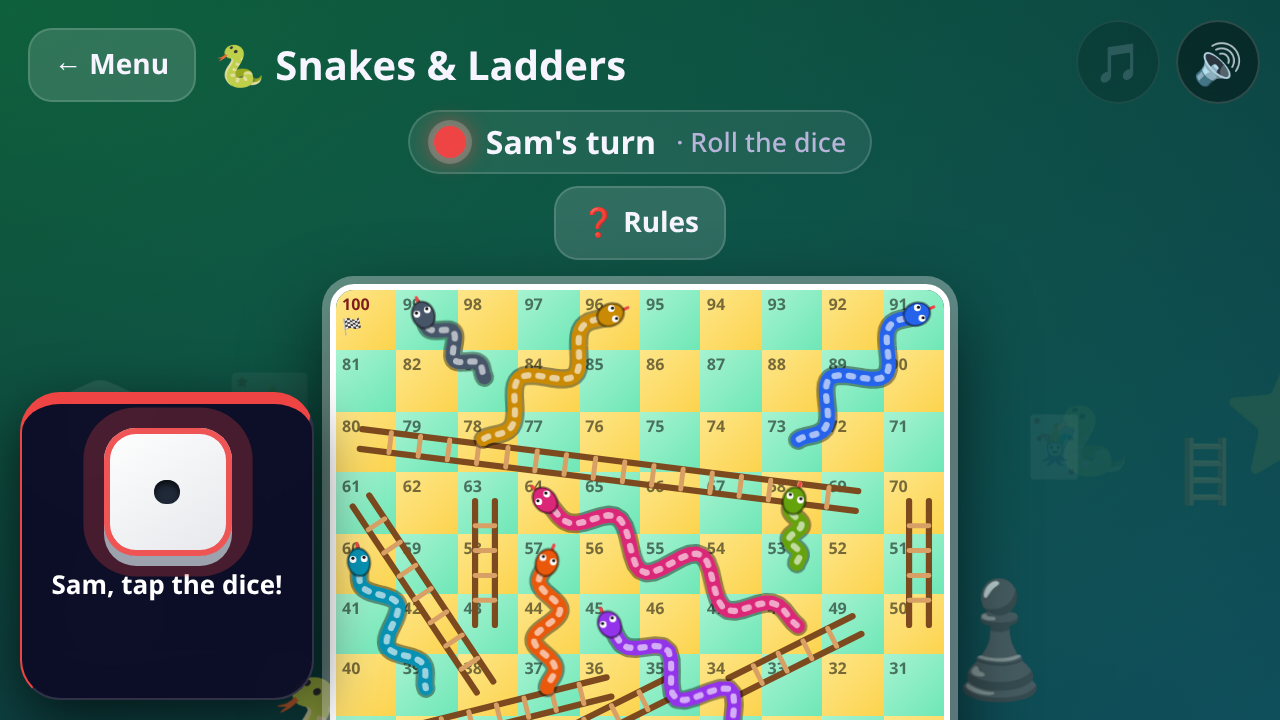
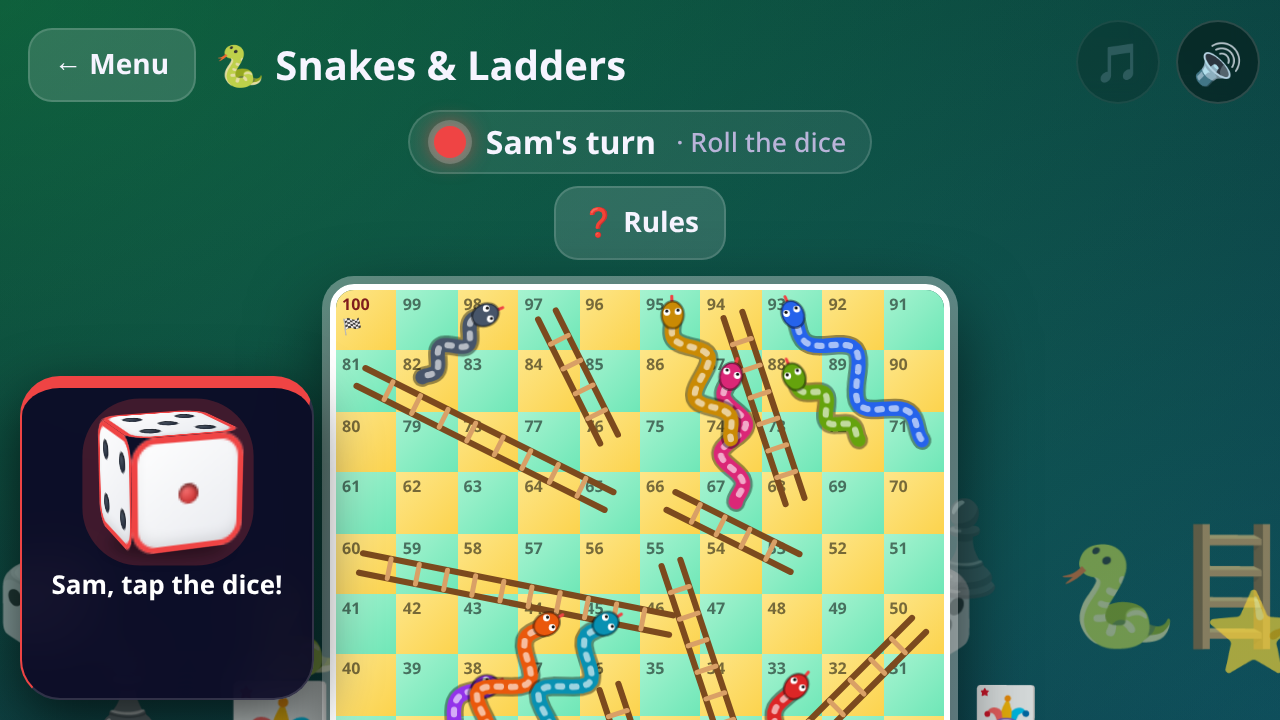
3D dice: CSS cube with six faces that tumbles and lands on the rolled number
Pure CSS 3D (no libraries): tilted cube shows three faces, spins 1-3 extra turns per axis (cosmetic crand),
hops with a shrinking shadow, red ace, player-coloured edges, breathing + pulse ring when it's your roll.
The rolled number is drawn at the start of the roll (synchronously) so the cube can land on it; online
determinism and the re-sync guard are unchanged.

diff --git a/game-night.html b/game-night.html
@@ -78,18 +78,32 @@ canvas.confetti{position:fixed;inset:0;width:100%;height:100%;z-index:130;pointe
 @keyframes pulse{to{transform:scale(1.14)}}
 
 /* Dice (shared by Ludo and Snakes & Ladders) */
-.dice{--dc:#fff;flex:none;width:64px;height:64px;border-radius:16px;border:0;padding:8px;background:linear-gradient(145deg,#fff,#e5e7eb);
-  display:grid;grid-template:repeat(3,1fr)/repeat(3,1fr);box-shadow:0 5px 0 #9ca3af,0 10px 18px #0006;position:relative;transition:transform .15s;touch-action:manipulation}
-.dice::after{content:'';position:absolute;inset:0;border-radius:16px;box-shadow:inset 0 0 0 3px var(--dc);opacity:.9;pointer-events:none}
-.dice i{width:78%;height:78%;margin:auto;border-radius:50%;background:transparent}
-.dice i.on{background:#1f2937;box-shadow:inset 0 2px 3px #000a}
-.dice.ready{animation:ring 1.3s ease-out infinite}                 /* your turn: a pulsing ring in your colour */
-.dice.ready:active{transform:translateY(3px) scale(.97)}
-.dice.rolling{animation:tumble .32s linear infinite}
-.dice.land{animation:land .35s ease-out}
-@keyframes ring{0%{box-shadow:0 5px 0 #9ca3af,0 0 0 0 var(--dc)}70%{box-shadow:0 5px 0 #9ca3af,0 0 0 14px transparent}100%{box-shadow:0 5px 0 #9ca3af,0 0 0 0 transparent}}
-@keyframes tumble{0%{transform:rotate(0) scale(1)}25%{transform:rotate(90deg) scale(.85) translateY(-7px)}50%{transform:rotate(180deg) scale(1)}75%{transform:rotate(270deg) scale(.85) translateY(-7px)}100%{transform:rotate(360deg) scale(1)}}
-@keyframes land{0%{transform:scale(1.25)}60%{transform:scale(.93)}100%{transform:scale(1)}}
+/* 3D dice: a CSS cube (6 faces) that tumbles and lands on the rolled face */
+.dice{--dc:#fff;--s:56px;flex:none;width:68px;height:72px;border:0;padding:0;background:none;position:relative;perspective:420px;
+  display:grid;place-items:center;touch-action:manipulation;-webkit-tap-highlight-color:transparent}
+.dice .hop{position:relative;width:var(--s);height:var(--s);transform-style:preserve-3d;transform:rotateX(-16deg) rotateY(20deg)}   /* tilt so 3 faces show */
+.dice .cube{position:absolute;inset:0;transform-style:preserve-3d;transition:transform .7s cubic-bezier(.2,.7,.25,1)}
+.dice .face{position:absolute;inset:0;display:grid;grid-template:repeat(3,1fr)/repeat(3,1fr);padding:7px;border-radius:12px;
+  background:linear-gradient(145deg,#fff,#e8eaef);box-shadow:inset 0 0 0 3px var(--dc),inset 0 -4px 8px #0002;backface-visibility:hidden}
+.dice .face i{width:72%;height:72%;margin:auto;border-radius:50%}
+.dice .face i.on{background:radial-gradient(circle at 35% 30%,#4b5563,#111827);box-shadow:inset 0 1px 2px #000a}
+.dice .f1{transform:translateZ(calc(var(--s) / 2))}.dice .f6{transform:rotateY(180deg) translateZ(calc(var(--s) / 2))}
+.dice .f3{transform:rotateY(90deg) translateZ(calc(var(--s) / 2))}.dice .f4{transform:rotateY(-90deg) translateZ(calc(var(--s) / 2))}
+.dice .f5{transform:rotateX(90deg) translateZ(calc(var(--s) / 2))}.dice .f2{transform:rotateX(-90deg) translateZ(calc(var(--s) / 2))}
+.dice .f1 i.on{background:radial-gradient(circle at 35% 30%,#f87171,#b91c1c)}                       /* classic red ace */
+.dice .shd{position:absolute;left:50%;bottom:0;width:58px;height:12px;margin-left:-29px;border-radius:50%;background:#000;opacity:.4;filter:blur(4px);transition:transform .35s,opacity .35s}
+.dice::before{content:'';position:absolute;inset:4px 2px 6px;border-radius:18px;pointer-events:none}
+.dice.ready::before{animation:ring 1.3s ease-out infinite}            /* your turn: a pulsing ring in your colour */
+.dice.ready:active .hop{transform:rotateX(-16deg) rotateY(20deg) scale(.93)}
+.dice.ready .hop{animation:breathe 1.3s ease-in-out infinite}
+.dice.rolling .hop{animation:hop .7s cubic-bezier(.3,.6,.4,1)}
+.dice.rolling .shd{animation:shd .7s cubic-bezier(.3,.6,.4,1)}
+@keyframes ring{0%{box-shadow:0 0 0 0 var(--dc)}70%{box-shadow:0 0 0 14px transparent}100%{box-shadow:0 0 0 0 transparent}}
+@keyframes breathe{50%{transform:rotateX(-16deg) rotateY(20deg) translateY(-3px)}}
+@keyframes hop{0%{transform:rotateX(-16deg) rotateY(20deg)}35%{transform:rotateX(-16deg) rotateY(20deg) translateY(-26px) scale(1.08)}70%{transform:rotateX(-16deg) rotateY(20deg) translateY(0)}
+  82%{transform:rotateX(-16deg) rotateY(20deg) translateY(-6px)}100%{transform:rotateX(-16deg) rotateY(20deg)}}
+@keyframes shd{35%{transform:scale(.55);opacity:.18}70%{transform:scale(1);opacity:.4}}
+@media (prefers-reduced-motion:reduce){.dice .cube{transition-duration:.05s}}
 /* Dice tray: pinned to the bottom of the screen so the dice is always reachable, tinted with the current player's colour */
 .dicebar{--dc:#fff;position:sticky;bottom:max(8px,env(safe-area-inset-bottom));z-index:6;display:flex;align-items:center;gap:14px;
   width:min(100%,560px);margin:12px auto 8px;padding:10px 16px 10px 12px;border-radius:20px;background:#0d0b26f0;backdrop-filter:blur(10px);
@@ -264,7 +278,6 @@ body[data-game=cards]{background:radial-gradient(900px 600px at 0 0,#10b98155,tr
 @keyframes wig{from{transform:skewX(-2.2deg) scaleY(1)}to{transform:skewX(2.2deg) scaleY(1.015)}}
 .cg-table{background:radial-gradient(ellipse at 50% 35%,#1fa04d,#14532d 75%);box-shadow:inset 0 0 50px #000a,0 10px 30px #0008}
 .pc{box-shadow:0 3px 8px #0009,inset 0 0 0 1px #0002}
-.dice{box-shadow:0 5px 0 #9ca3af,0 12px 22px #0007}
 @media (prefers-reduced-motion:reduce){.bgfx,.logo,.snk,.hero h1{animation:none!important}}
 
 /* ---------- 6. Features: themes, tools, rules, effects, landscape ---------- */
@@ -542,28 +555,40 @@ const UI = {
 /** Animated six-sided die rendered with CSS pips. Used by Ludo and Snakes & Ladders. */
 class Dice {
   static PIPS = { 1: [4], 2: [0, 8], 3: [0, 4, 8], 4: [0, 2, 6, 8], 5: [0, 2, 4, 6, 8], 6: [0, 2, 3, 5, 6, 8] };
+  /** Cube rotation that brings face v to the front (faces: 1 front, 6 back, 3 right, 4 left, 5 top, 2 bottom). */
+  static FACE = { 1: [0, 0], 6: [0, 180], 3: [0, -90], 4: [0, 90], 5: [-90, 0], 2: [90, 0] };
   constructor(onUser) {
-    this.value = 1; this.onClick = null; this.onUser = onUser || null;
-    this.pips = Array.from({ length: 9 }, () => h('i'));
-    this.el = h('button', { class: 'dice', type: 'button', 'aria-label': 'Roll the dice', onclick: () => { if (this.onUser) this.onUser(); else this.fire(); } }, this.pips);
-    this.show(1); this.enable(false);
+    this.value = 1; this.onClick = null; this.onUser = onUser || null; this.turns = [0, 0];
+    const faces = [1, 2, 3, 4, 5, 6].map(v => h('div', { class: 'face f' + v }, Array.from({ length: 9 }, (_, i) => h('i', { class: Dice.PIPS[v].includes(i) ? 'on' : '' }))));
+    this.cube = h('div', { class: 'cube' }, faces);
+    this.el = h('button', { class: 'dice', type: 'button', 'aria-label': 'Roll the dice', onclick: () => { if (this.onUser) this.onUser(); else this.fire(); } },
+      h('i', { class: 'shd' }), h('div', { class: 'hop' }, this.cube));
+    this.show(1, true); this.enable(false);
   }
   /** Trigger a roll request (a local click, or a replayed remote one). */
   fire() { if (this.onClick) this.onClick(); }
-  show(v) { this.value = v; this.pips.forEach((p, i) => p.classList.toggle('on', Dice.PIPS[v].includes(i))); }
+  /** Turn the cube so face v is in front. `still` = no animation; otherwise add whole extra spins so it tumbles on the way. */
+  show(v, still) {
+    this.value = v; const [fx, fy] = Dice.FACE[v];
+    if (!still) { this.turns[0] += 2 + crand(2); this.turns[1] += 1 + crand(2); }                       // cosmetic: how many flips (not game randomness)
+    this.cube.style.transition = still || FF ? 'none' : '';
+    this.cube.style.transform = `rotateX(${this.turns[0] * 360 + fx}deg) rotateY(${this.turns[1] * 360 + fy}deg)`;
+    this.el.setAttribute('aria-label', `Dice showing ${v}. Roll the dice`);
+  }
   /** The dice tray: dice + status text + last rolled number, tinted with the current player's colour. */
   bar(info) { this.valEl = h('b', { class: 'val', 'aria-live': 'polite' }); this.barEl = h('div', { class: 'dicebar' }, this.el, info, this.valEl); return this.barEl; }
   setColor(c) { this.el.style.setProperty('--dc', c); if (this.barEl) { this.barEl.style.setProperty('--dc', c); this.valEl.textContent = ''; } }
   enable(on) { this.el.disabled = !on; this.el.classList.toggle('ready', on); }
   /** Resolves on the next click of the (enabled) die. */
   waitClick() { return new Promise(res => { this.onClick = () => { this.onClick = null; res(); }; }); }
-  /** Animated roll; resolves with 1..6. */
+  /** Animated roll; resolves with 1..6. The number is drawn up front (synchronously, while the game is surely alive) so the cube can land on it. */
   async roll(game) {
-    Sound.play('dice'); this.el.classList.add('rolling');
-    for (let i = 0; i < (FF ? 0 : 10); i++) { this.show(1 + crand(6)); await sleep(62); }
-    if (game) game.check();                 // the game was closed mid-roll (e.g. re-sync rebuilt it): don't consume the new game's random numbers
-    const v = 1 + rand(6); this.show(v); this.el.classList.remove('rolling');
-    if (!FF) { this.el.classList.remove('land'); void this.el.offsetWidth; this.el.classList.add('land'); }
+    if (game) game.check();
+    const v = 1 + rand(6); Sound.play('dice');
+    if (FF) { this.show(v, true); } else {
+      this.el.classList.remove('rolling'); void this.el.offsetWidth; this.el.classList.add('rolling'); this.show(v);
+      await sleep(720); if (game) game.check(); this.el.classList.remove('rolling');
+    }
     if (this.valEl) this.valEl.textContent = v; return v;
   }
 }
